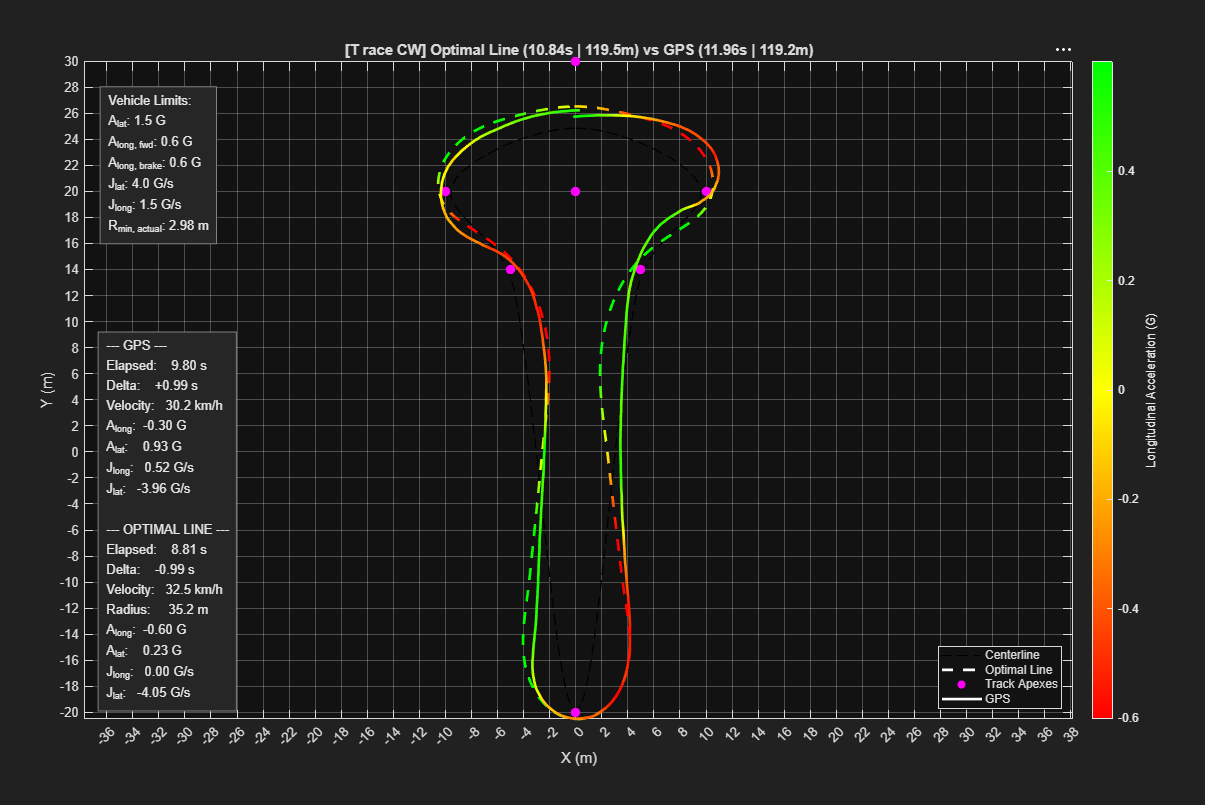
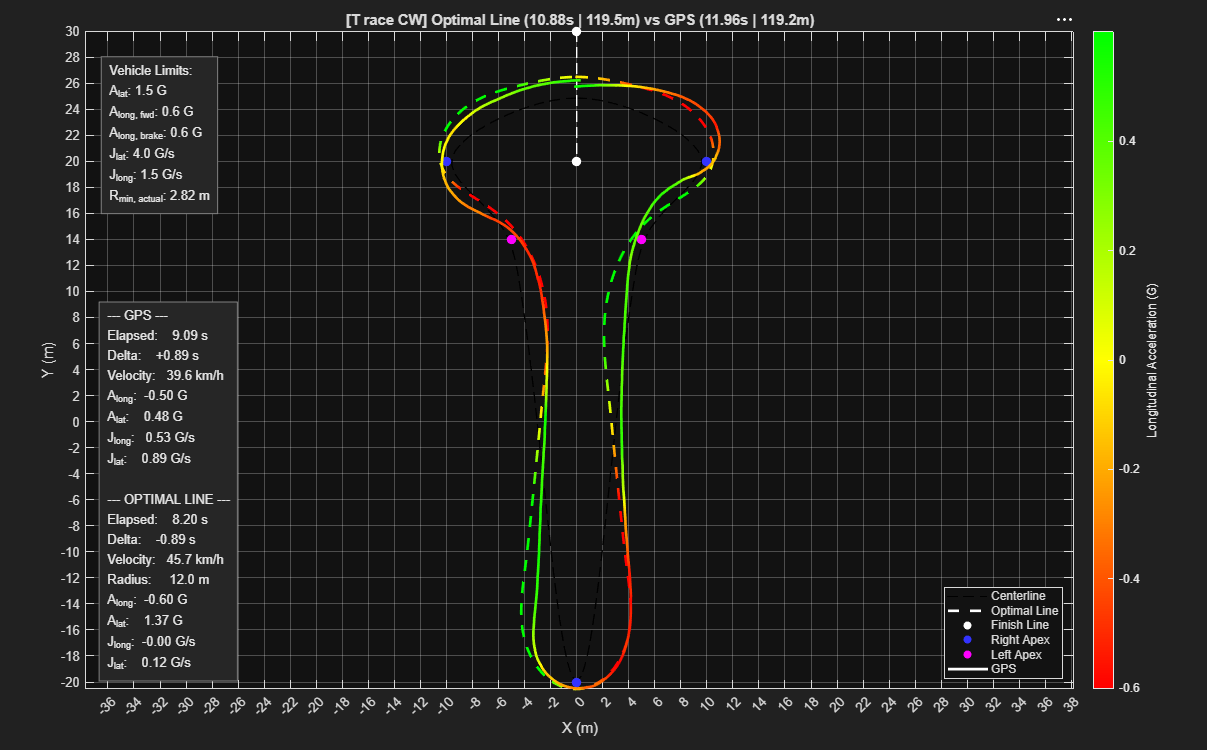
Add files via upload

diff --git a/track_optimization.m b/track_optimization.m
@@ -356,20 +356,32 @@ hover_data.jy    = interp1(s_opt, jy_clean, s_dense, 'makima');
 hover_data.kappa = interp1(s_opt, kappa_clean, s_dense, 'makima');
 
 
-%% 8.Plot Results
+%% 8. Plot Results
 % Create or update Figure 1, force docking, and clear previous run data
-
 figure(1);
 set(gcf, 'WindowStyle', 'docked');
 clf; 
 
-
-% Setup Legend
+% Setup Centerline and Dummy Lines for Legend
 h_center = plot(ref_path.x, ref_path.y, 'k--', 'DisplayName', 'Centerline'); hold on;
 h_opt_dummy = plot(NaN, NaN, 'w--', 'LineWidth', 2);
-h_apex = scatter(track_pts(:,1), track_pts(:,2), 50, 'm', 'filled', 'DisplayName', 'Track Apexes');
 h_gps_dummy = plot(NaN, NaN, 'w-', 'LineWidth', 2);
 
+% Draw thin dashed white line between finish points
+plot([track_pts(1,1), track_pts(2,1)], [track_pts(1,2), track_pts(2,2)], ...
+    'w--', 'LineWidth', 1, 'HandleVisibility', 'off');
+
+% Plot Track Points Separately for Legend
+% 1. Finish Line Gates (Indices 1 & 2)
+h_fin = scatter(track_pts(1:2, 1), track_pts(1:2, 2), 50, [1, 1, 1], 'filled', 'DisplayName', 'Finish Line');
+
+% 2. Right-hand Apexes (CW = 1)
+idx_right = find(track_pts(3:end, 4) == 1) + 2;
+h_right = scatter(track_pts(idx_right, 1), track_pts(idx_right, 2), 50, [0.2, 0.2, 1], 'filled', 'DisplayName', 'Right Apex');
+
+% 3. Left-hand Apexes (CCW = -1)
+idx_left = find(track_pts(3:end, 4) == -1) + 2;
+h_left = scatter(track_pts(idx_left, 1), track_pts(idx_left, 2), 50, [1, 0, 1], 'filled', 'DisplayName', 'Left Apex');
 
 % 1. Color Mapping
 % Calculate longitudinal G-force for the color mapping
@@ -420,7 +432,7 @@ R_actual_min = min(1 ./ abs(kappa));
 param_str = sprintf('Vehicle Limits:\nA_{lat}: %.1f G\nA_{long, fwd}: %.1f G\nA_{long, brake}: %.1f G\nJ_{lat}: %.1f G/s\nJ_{long}: %.1f G/s\nR_{min, actual}: %.2f m', ...
     A_lat/g, A_long_fwd/g, A_long_brake/g, J_lat/g, J_long/g, R_actual_min);
 
-% Create the text box using data units and attach the drag callback
+% Create the text box using data units
 text(-36, 22, param_str, 'Units', 'data', ...
     'BackgroundColor', [0.15 0.15 0.15], ... 
     'Color', [0.9 0.9 0.9], ...              
@@ -428,13 +440,7 @@ text(-36, 22, param_str, 'Units', 'data', ...
     'Margin', 5, ...
     'Interpreter', 'tex');
 
-% Enable interactive data cursor
-dcm = datacursormode(gcf);
-dcm.Enable = 'on';
-dcm.UpdateFcn = @hover_callback;
-
-
-
+% GPS Telemetry Processing
 s_rc_raw = [0; cumsum(ds_rc)];
 [s_rc_clean, unique_idx] = unique(s_rc_raw);
 v_rc_clean = v_rc(unique_idx);
@@ -443,23 +449,19 @@ v_rc_interp = interp1(s_rc_clean, v_rc_clean, s_lap, 'linear', 'extrap');
 % Calculate longitudinal G-force for the color mapping
 G_long_rc = rc_hover.ax / 9.81;
 
-% Create a continuous colored dashed line for telemetry
+% Create a continuous colored solid line for telemetry
 p_gps = patch([x_rc; NaN], [y_rc; NaN], [G_long_rc; NaN], ...
     'FaceColor', 'none', ...
     'EdgeColor', 'interp', ...
+    'LineStyle', '-', ...
     'LineWidth', 2, ...
     'DisplayName', 'GPS', ...
     'UserData', rc_hover);
 
-
-% Generate the corrected legend using explicit handles and dummy lines
-lgd = legend;
-lgd.Position(1) = lgd.Position(1) - 0.02; 
-lgd.Position(2) = lgd.Position(2) - 0.45; 
-lgd = legend([h_center, h_opt_dummy, h_apex, h_gps_dummy], ...
-    {'Centerline', 'Optimal Line', 'Track Apexes', 'GPS'}, ...
+% Generate the corrected legend using explicit handles
+lgd = legend([h_center, h_opt_dummy, h_fin, h_right, h_left, h_gps_dummy], ...
+    {'Centerline', 'Optimal Line', 'Finish Line', 'Right Apex', 'Left Apex', 'GPS'}, ...
     'Location', 'southeast');
-
 
 % Disable default data cursor mode
 datacursormode(gcf, 'off');
@@ -477,7 +479,6 @@ text(0.02, 0.02, 'Hover over track to load telemetry...', ...
 
 % Bind the motion tracker to update the HUD continuously
 set(gcf, 'WindowButtonMotionFcn', @hud_update_callback);
-
 
 % Update figure title with comparative data and track name
 gps_lap_time = t_rc(end);
